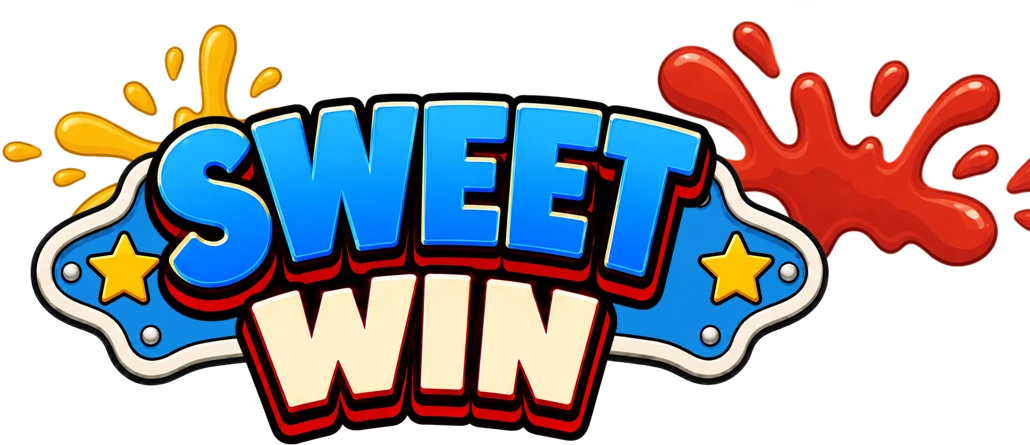
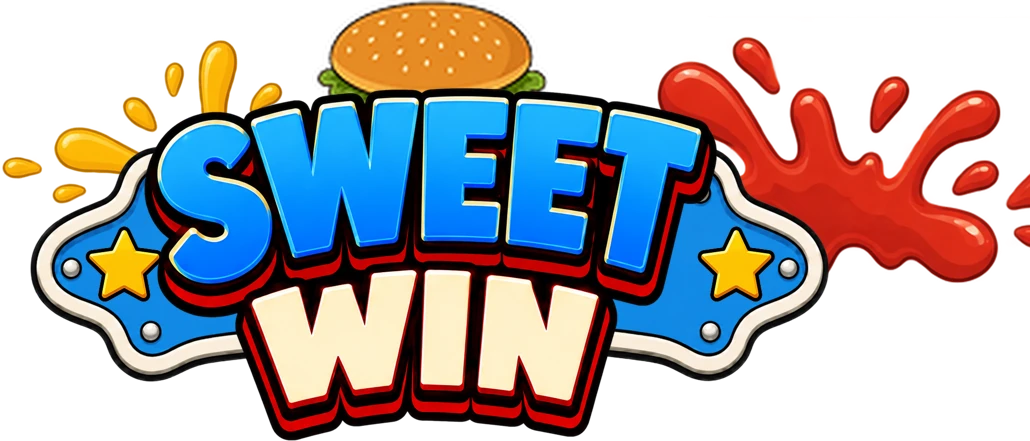
feat(mcschmutzo): win pad ✕ button, burger, dev tier preview
- ✕ close button top-right of the win overlay (dismisses like press-anywhere).
- Burger added to each tier pad (peeks above the wordmark, per the design).
- Dev-only hotkeys 1–5 force SWEET/LEGENDARY/EPIC/WILD/MYTHIC for previewing
  (stripped from production builds via import.meta.env.DEV).

diff --git a/apps/mcschmutzo/src/components/Win.svelte b/apps/mcschmutzo/src/components/Win.svelte
@@ -8,8 +8,9 @@
 </script>
 
 <script lang="ts">
-	import { Container } from 'pixi-svelte';
-	import { FadeContainer, WinCountUpProvider, ResponsiveBitmapText } from 'components-pixi';
+	import { onMount } from 'svelte';
+	import { Container, Graphics, PIXI } from 'pixi-svelte';
+	import { FadeContainer, WinCountUpProvider, ResponsiveBitmapText, Button } from 'components-pixi';
 	import { waitForResolve, waitForTimeout } from 'utils-shared/wait';
 	import { bookEventAmountToCurrencyString } from 'utils-shared/amount';
 	import { CanvasSizeRectangle, MainContainer } from 'components-layout';
@@ -19,6 +20,7 @@
 	import WinPad from './WinPad.svelte';
 	import PressToContinue from './PressToContinue.svelte';
 	import { SYMBOL_SIZE } from '../game/constants';
+	import { winLevelMap, type WinLevel } from '../game/winLevelMap';
 	import { getContext } from '../game/context';
 
 	const context = getContext();
@@ -37,6 +39,43 @@
 			winLevelData = emitterEvent.winLevelData;
 			await waitForResolve((resolve) => (oncomplete = resolve));
 		},
+	});
+
+	// ── ✕ close button, top-right of the canvas ──────────────────────────────────────────────────
+	const main = $derived(context.stateLayoutDerived.mainLayout());
+	const canvas = $derived(context.stateLayoutDerived.canvasSizes());
+	const closeX = $derived(main.width * 0.5 + canvas.width / (2 * (main.scale || 1)));
+	const closeYtop = $derived(main.height * 0.5 - canvas.height / (2 * (main.scale || 1)));
+	const closeSize = $derived(Math.min(main.width, main.height) * 0.07);
+	const drawClose = (g: InstanceType<typeof PIXI.Graphics>, s: number) => {
+		g.circle(0, 0, s * 0.5).fill({ color: 0x000000, alpha: 0.4 });
+		const a = s * 0.2;
+		g.moveTo(-a, -a)
+			.lineTo(a, a)
+			.moveTo(a, -a)
+			.lineTo(-a, a)
+			.stroke({ width: s * 0.1, color: 0xffffff, cap: 'round' });
+	};
+
+	// ── Dev-only tier preview: press 1–5 to force SWEET/LEGENDARY/EPIC/WILD/MYTHIC ────────────────
+	onMount(() => {
+		if (!import.meta.env.DEV) return;
+		const keyToLevel: Record<string, WinLevel> = {
+			Digit1: 6,
+			Digit2: 7,
+			Digit3: 8,
+			Digit4: 9,
+			Digit5: 10,
+		};
+		const onKey = (e: KeyboardEvent) => {
+			const level = keyToLevel[e.code];
+			if (!level) return;
+			winLevelData = winLevelMap[level];
+			amount = 154300;
+			show = true;
+		};
+		window.addEventListener('keydown', onKey);
+		return () => window.removeEventListener('keydown', onKey);
 	});
 </script>
 
@@ -97,6 +136,24 @@
 				</MainContainer>
 
 				<WinCoins emit={!countUpCompleted} levelAlias={winLevelData?.alias} />
+
+				{#if isBigWin}
+					<MainContainer>
+						<Button
+							x={closeX - closeSize}
+							y={closeYtop + closeSize}
+							anchor={0.5}
+							sizes={{ width: closeSize, height: closeSize }}
+							onpress={() => (countUpCompleted ? oncomplete() : finishCountUp())}
+						>
+							{#snippet children({ center })}
+								<Container x={center.x} y={center.y}>
+									<Graphics draw={(graphics) => drawClose(graphics, closeSize)} />
+								</Container>
+							{/snippet}
+						</Button>
+					</MainContainer>
+				{/if}
 
 				<PressToContinue onpress={() => (countUpCompleted ? oncomplete() : finishCountUp())} />
 			{/snippet}
